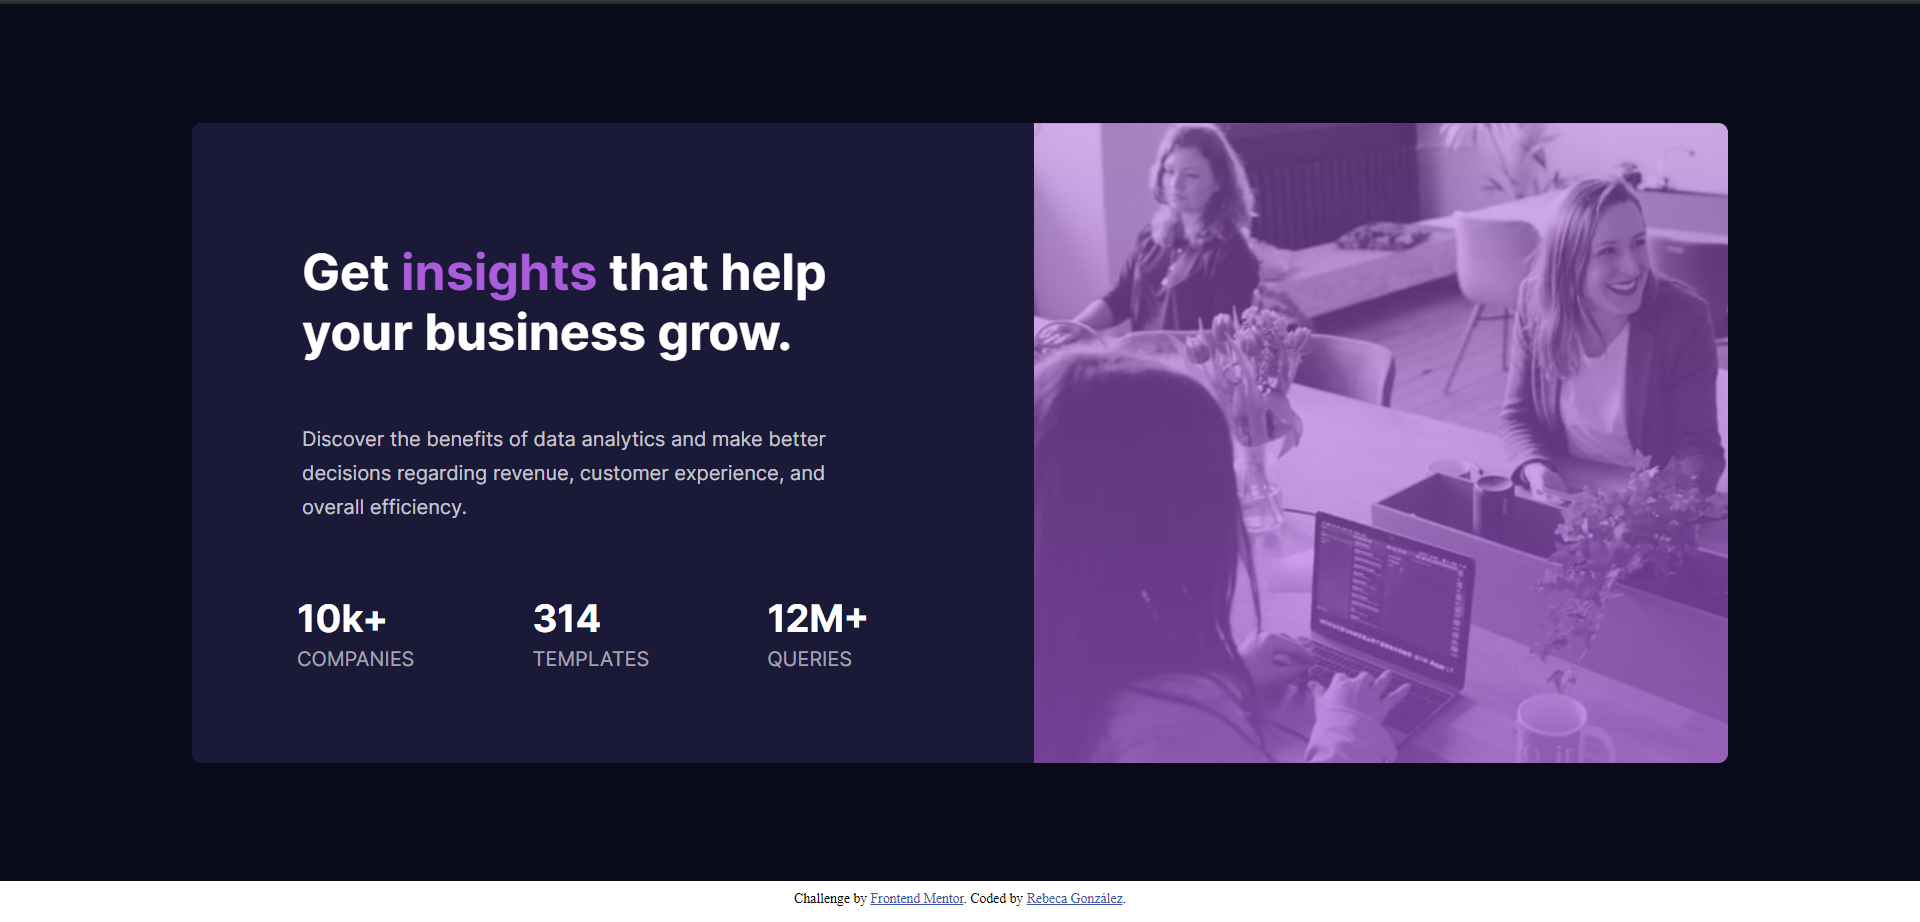
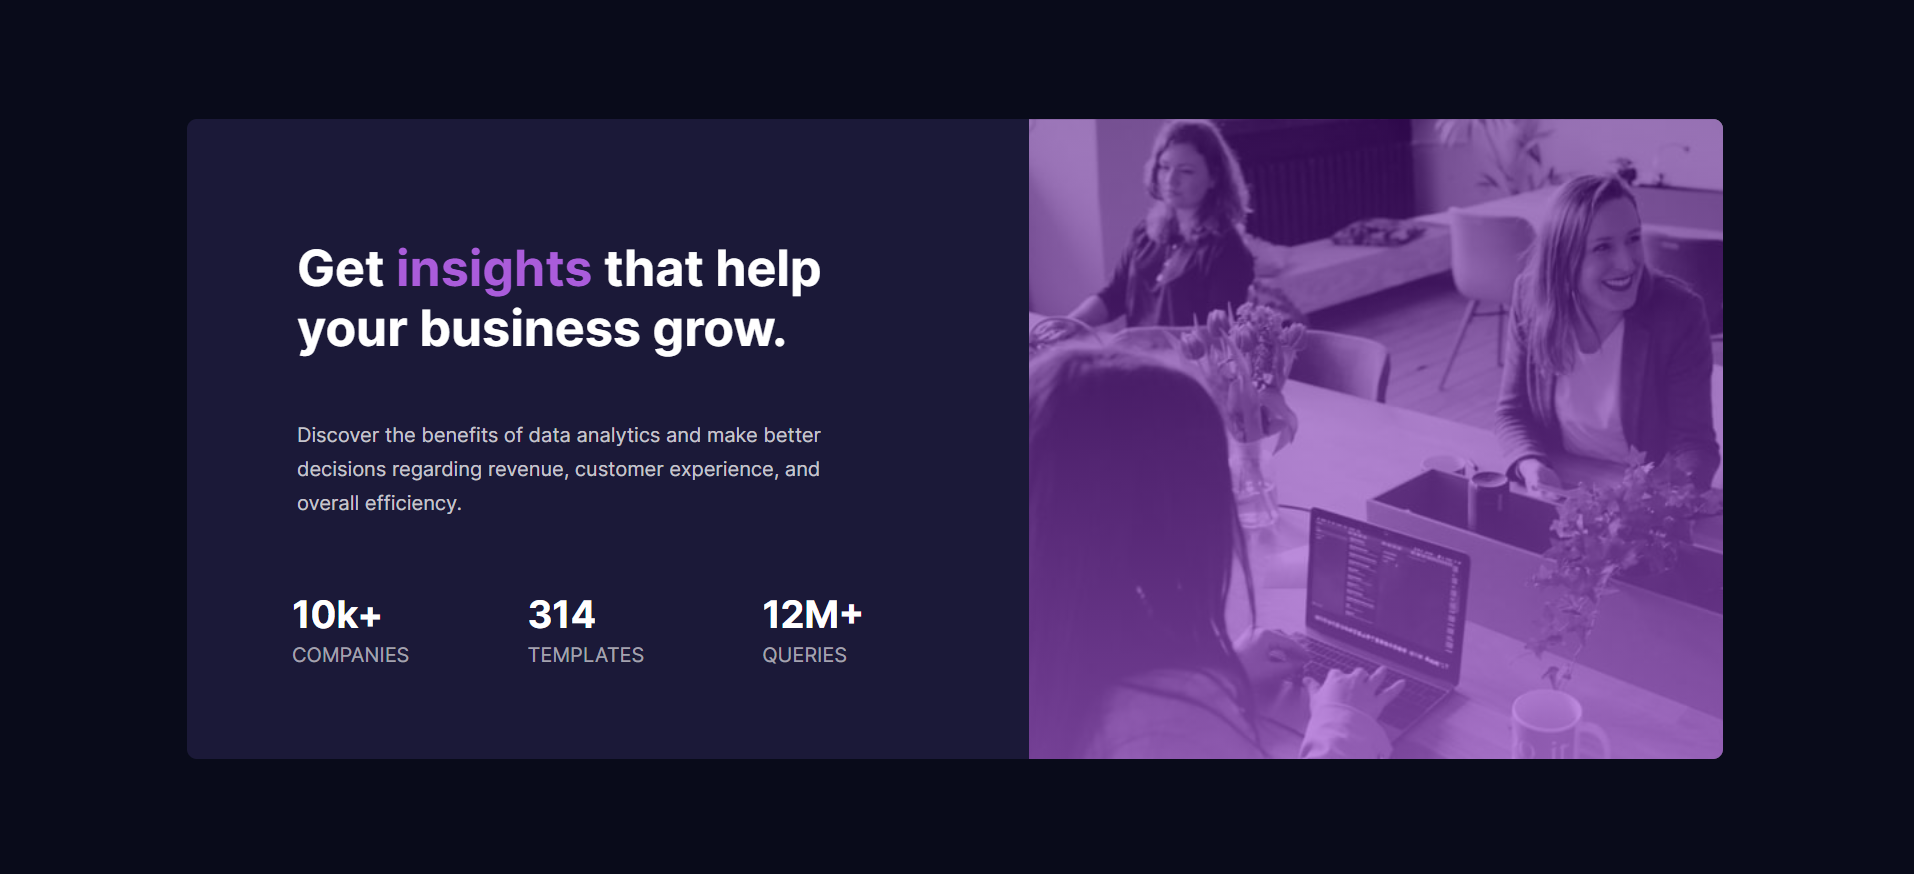
update preview and image color

diff --git a/css/style.css b/css/style.css
@@ -67,7 +67,7 @@ main {
   left: 0;
   height: 40vh;
   width: 100%;
-  background-image: linear-gradient(hsla(277, 64%, 61%,0.47), hsla(277, 64%, 61%,0.67) );
+  background-image: linear-gradient(hsl(274deg 96% 26% / 52%), hsla(277, 64%, 61%,0.67) );;
   border-top-left-radius: var(--border-radius);
   border-top-right-radius: var(--border-radius);
 }
